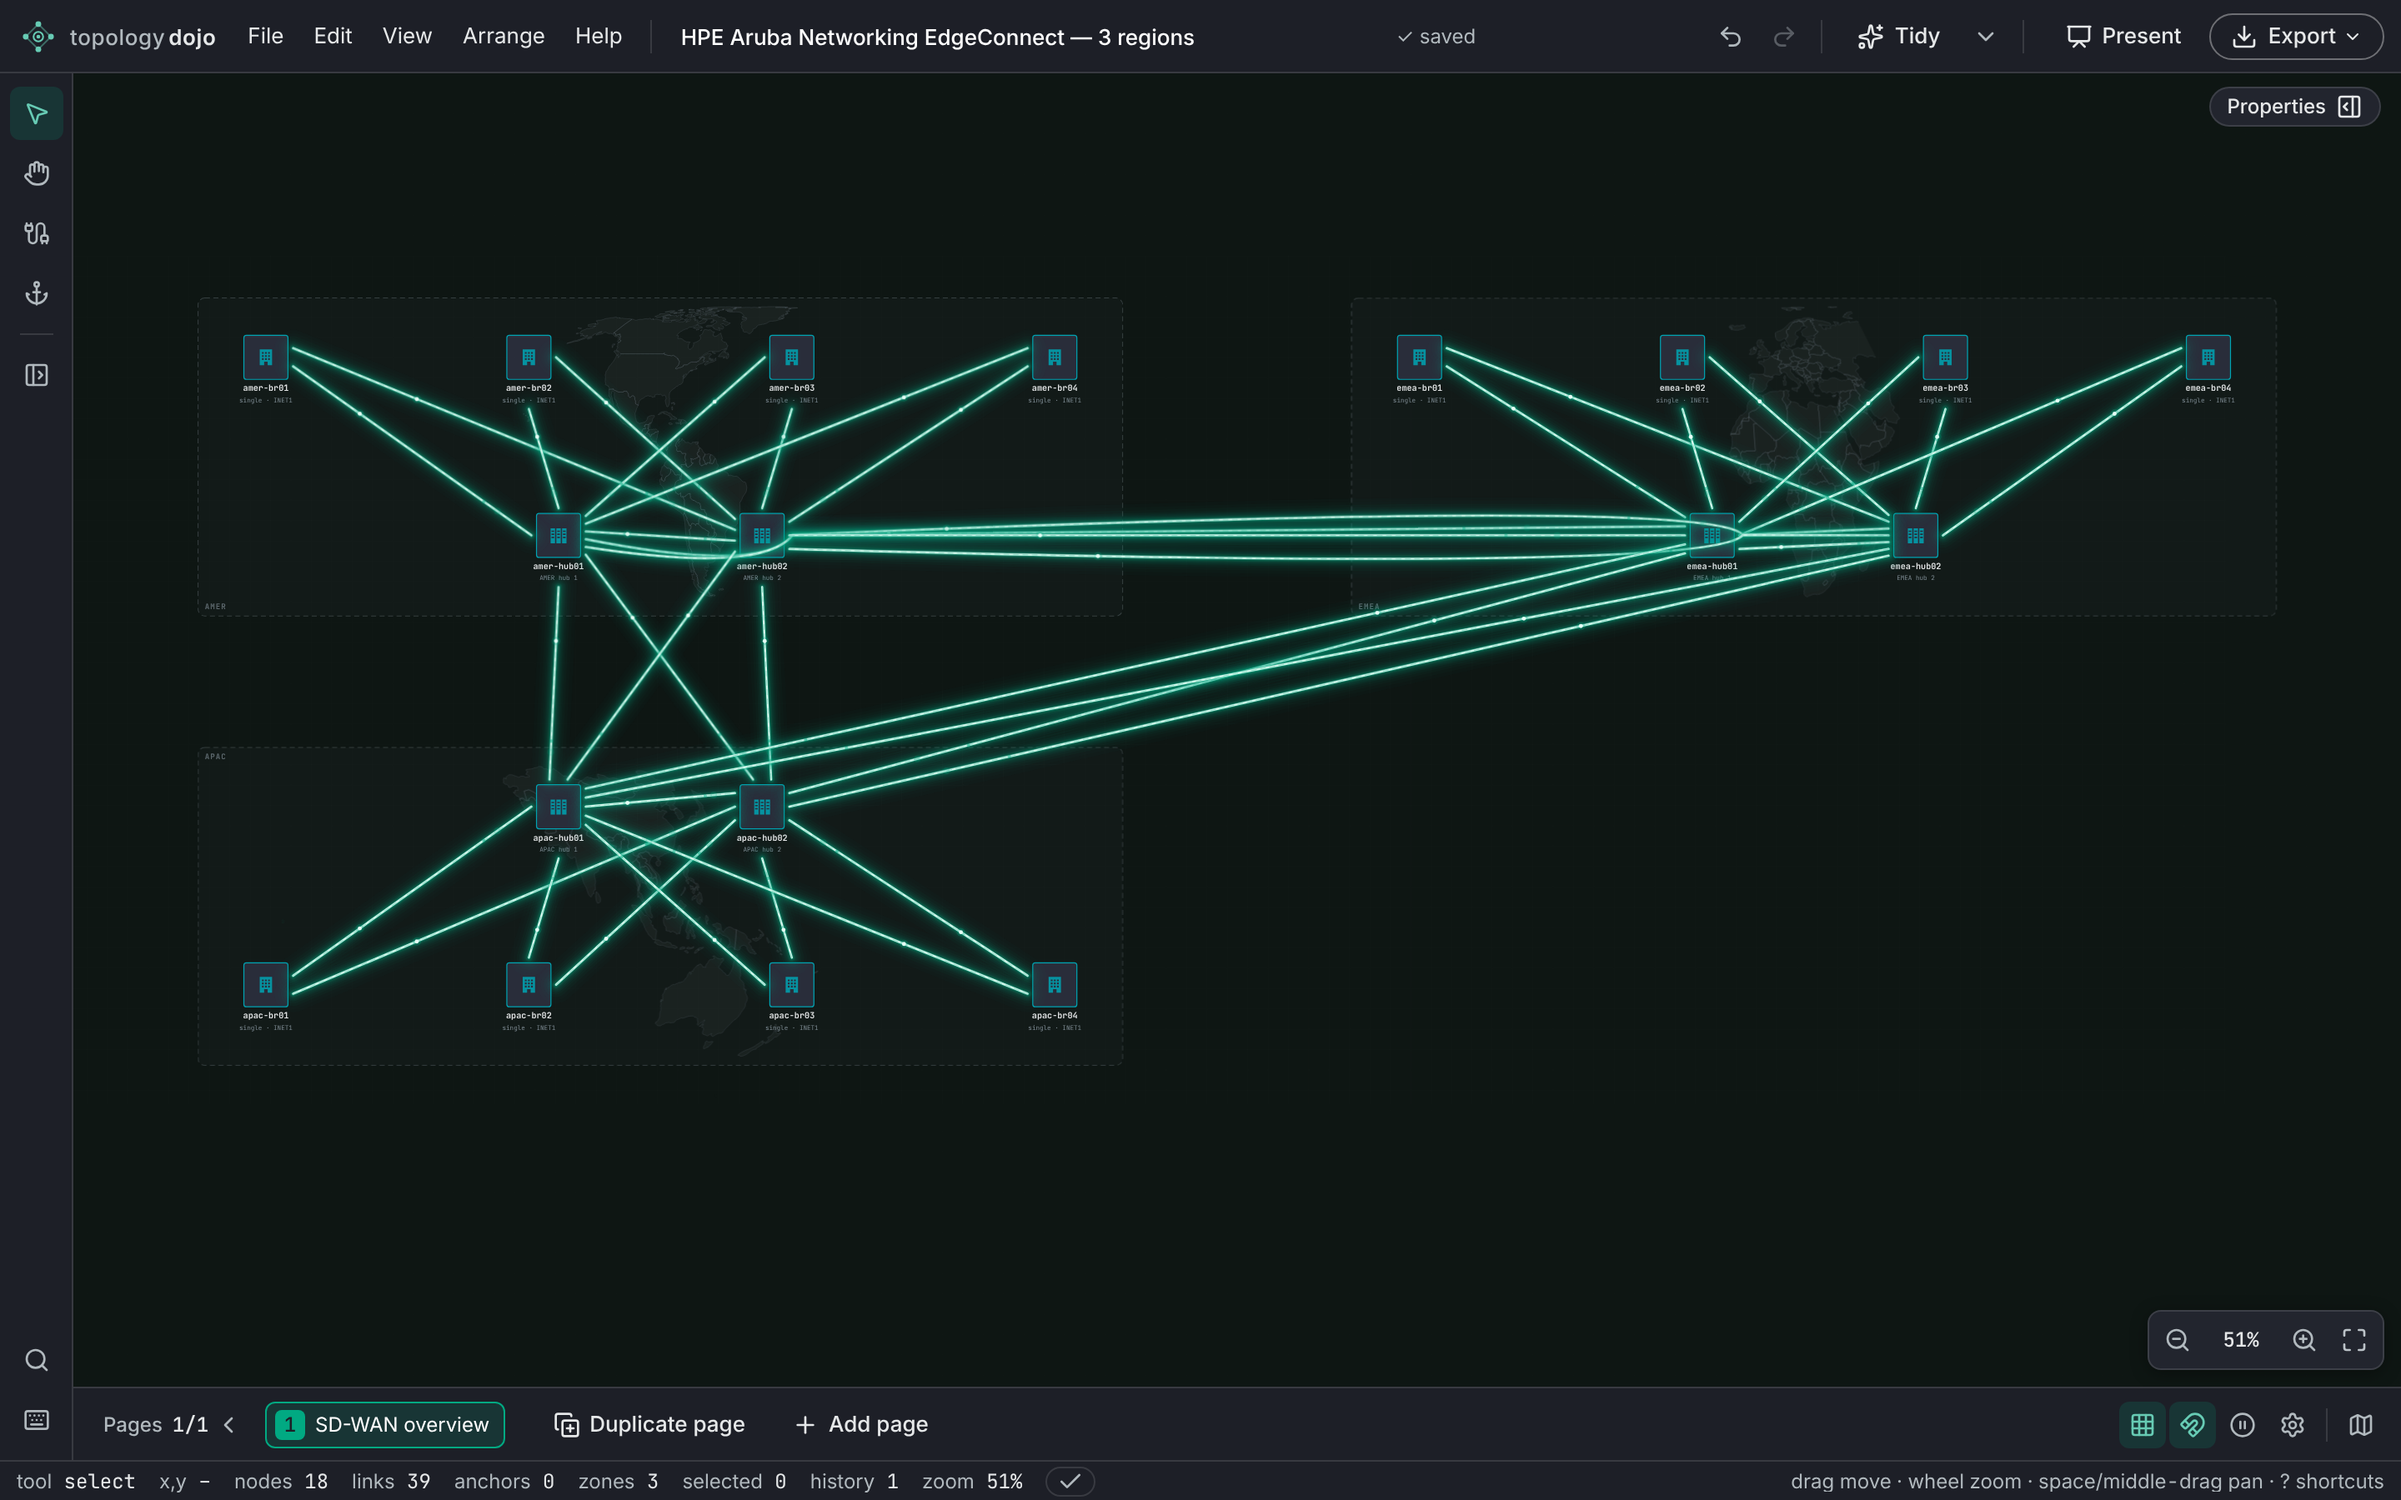
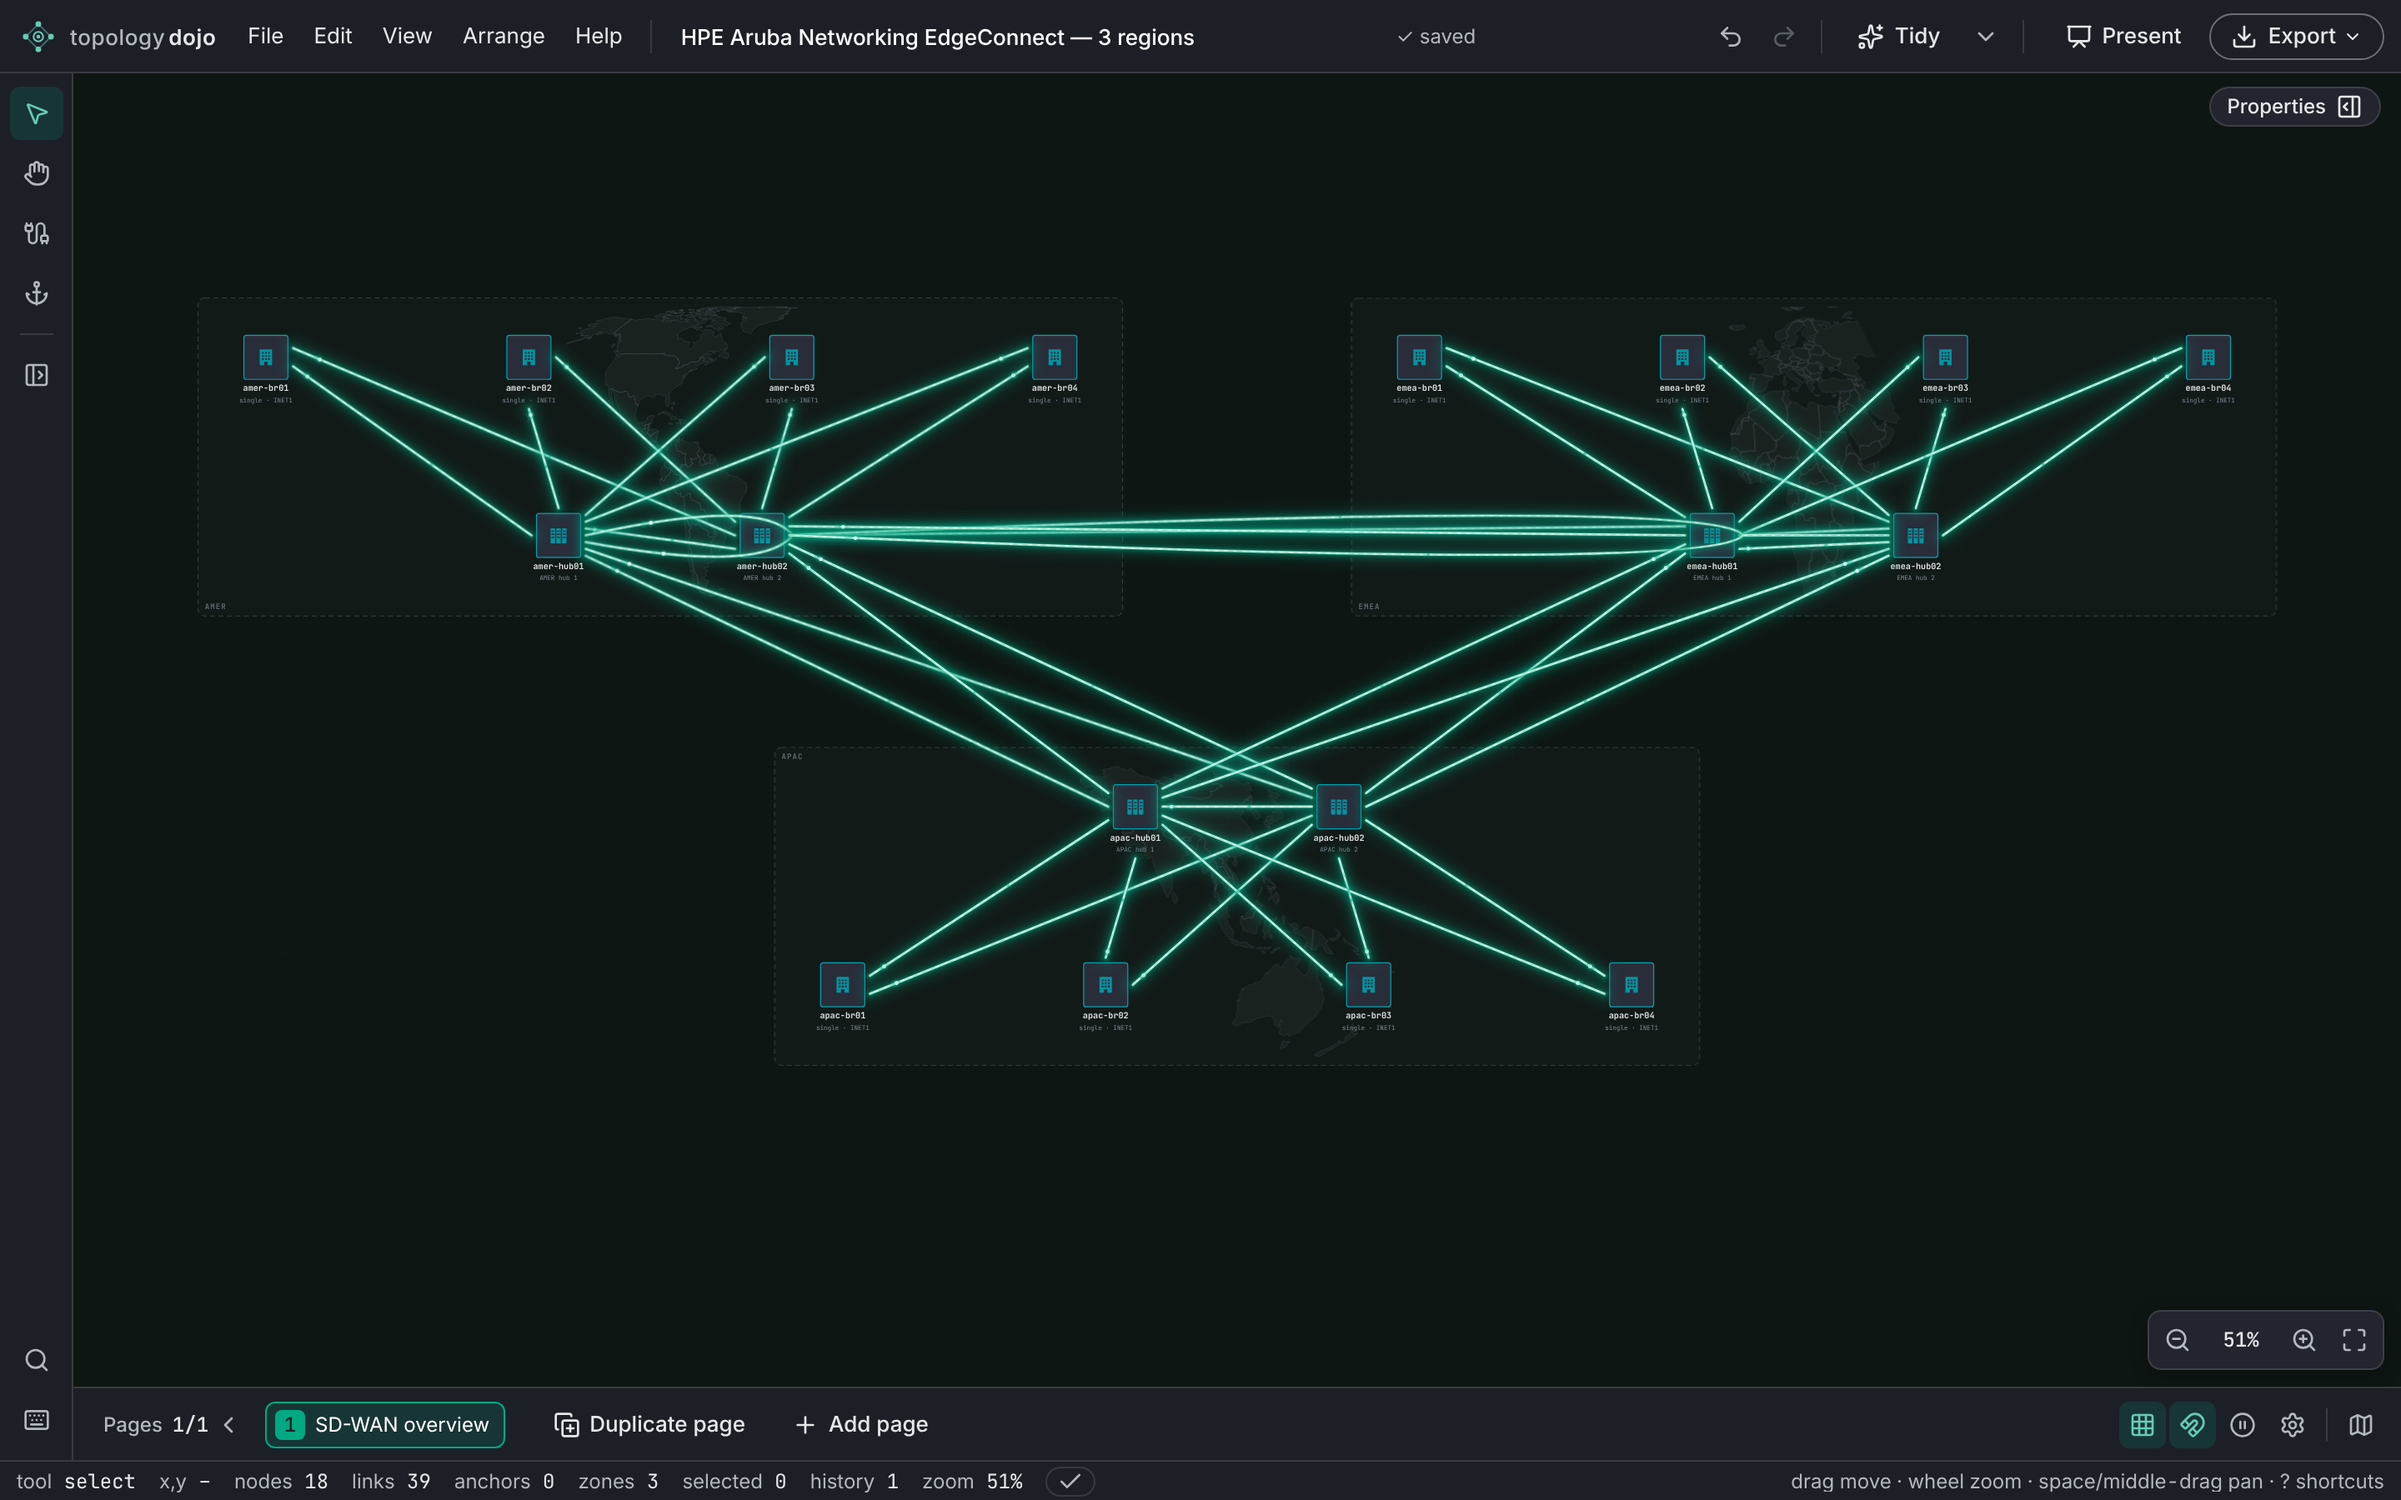
docs(readme): the lead image shows the three regions as a triangle
The wizard places a third region under the first, which left the image
lopsided. The image script now moves the third region to sit centred
under the other two, so the three pairs of hubs are the points of a
triangle, and says in its header that this move is its own.

Claude-Session: https://claude.ai/code/session_011p1xTfiECfRXNFo4UFq8R1

Changed region(s): [[0.0938, 0.28, 0.7812, 0.6844], [0.1562, 0.2489, 0.1875, 0.28]]

diff --git a/README.md b/README.md
@@ -3,7 +3,7 @@
 Network topology diagrams that a person can draw and an AI agent can generate,
 in the same format, with the same renderer.
 
-![The editor in the dark theme showing a generated three-region SD-WAN fabric (hubs and branches per region over continent map backdrops), with the top bar and its menus, the left rail, the pages bar and the status bar around the canvas; the node library and the properties panel are closed](docs/images/editor-sdwan.png)
+![The editor in the dark theme showing a generated three-region SD-WAN fabric (hubs and branches per region over continent map backdrops, the regions arranged as a triangle with their hubs meshed), with the top bar and its menus, the left rail, the pages bar and the status bar around the canvas; the node library and the properties panel are closed](docs/images/editor-sdwan.png)
 
 There are two ways to author a diagram, and they produce the same document:
 
